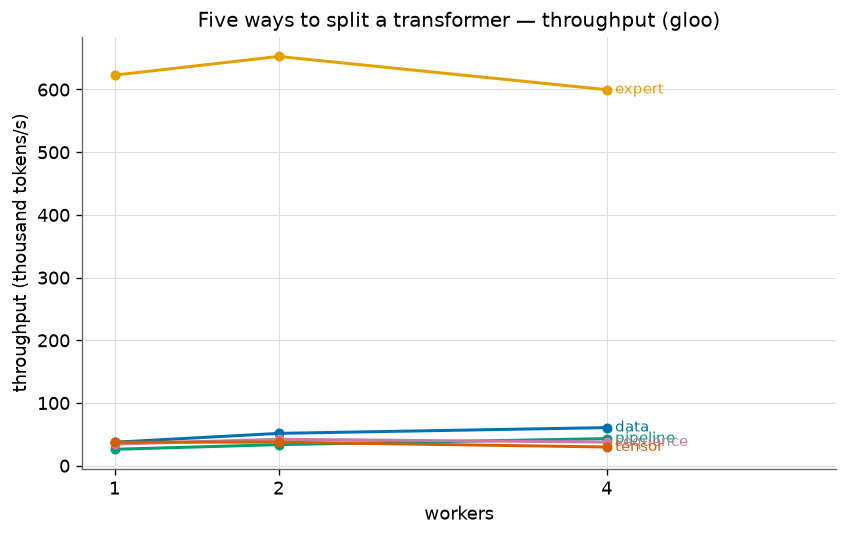
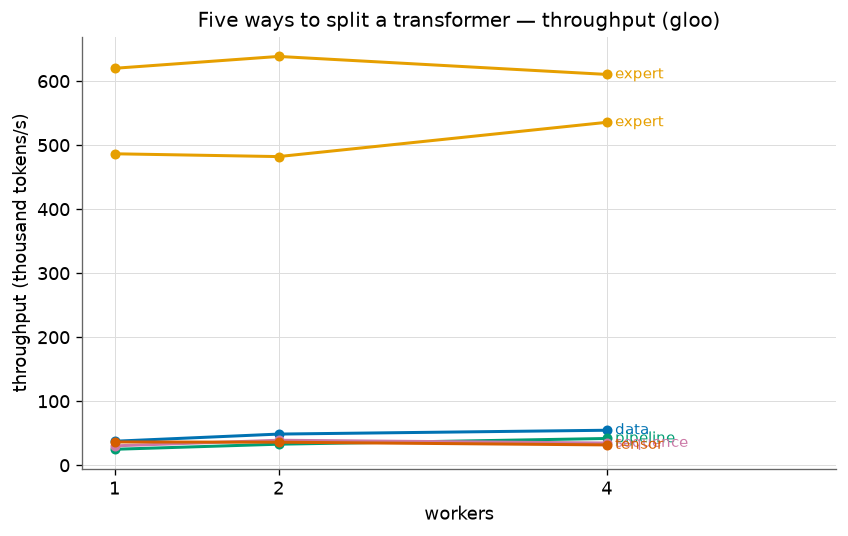
T5: fix two bugs the CPU rehearsal exists to catch
1. NCCL has no dist.gather. step_dp and step_sp both used it, so the harness would
   have failed on the first GPU run - i.e. on rented hardware. Replaced with
   all_gather, which every backend implements. Audited the remaining collectives:
   all_reduce, all_gather, send, recv and barrier are all NCCL-supported.

2. results_io replaced rows keyed on experiment alone, so re-running a single
   strategy (--strategies ep) silently deleted every other strategy's rows from the
   same experiment. Data loss with no error. Key is now (experiment, variant), with
   a regression test.

All five strategies still numerically exact after the change.

diff --git a/topics/t05_parallelism/results_io.py b/topics/t05_parallelism/results_io.py
@@ -20,19 +20,20 @@ FIELDS = ("experiment", "variant", "workers", "metric", "value")
 
 
 def append_rows(rows: list[dict[str, object]]) -> None:
-    """Replace any existing rows for the experiments present in `rows`, then append these.
+    """Replace existing rows matching the (experiment, variant) pairs in `rows`, then append these.
 
-    Replace-by-experiment (rather than plain append) keeps the file idempotent: re-running one
-    experiment refreshes its own rows and leaves the other two untouched, so a partial re-run
-    can never silently produce a CSV holding two different runs of the same experiment.
+    Idempotent so a re-run refreshes its own numbers rather than stacking a second run on top of
+    the first. The replace key is the **(experiment, variant) pair**, not the experiment alone:
+    keying on experiment meant that re-running one strategy — say `--strategies ep` — silently
+    deleted every other strategy's rows from the same experiment, losing data with no error.
     """
     RESULTS_DIR.mkdir(parents=True, exist_ok=True)
-    incoming = {str(r["experiment"]) for r in rows}
+    incoming = {(str(r["experiment"]), str(r["variant"])) for r in rows}
 
     kept: list[dict[str, str]] = []
     if CSV_PATH.exists():
         with CSV_PATH.open() as f:
-            kept = [r for r in csv.DictReader(f) if r["experiment"] not in incoming]
+            kept = [r for r in csv.DictReader(f) if (r["experiment"], r["variant"]) not in incoming]
 
     with CSV_PATH.open("w", newline="") as f:
         writer = csv.DictWriter(f, fieldnames=FIELDS)
@@ -42,7 +43,12 @@ def append_rows(rows: list[dict[str, object]]) -> None:
         for row in rows:
             writer.writerow({k: row[k] for k in FIELDS})
 
-    print(f"\nwrote {len(rows)} rows for {sorted(incoming)} -> {CSV_PATH.relative_to(Path.cwd())}")
+    experiments = sorted({e for e, _ in incoming})
+    try:
+        shown = CSV_PATH.relative_to(Path.cwd())
+    except ValueError:  # CSV lives outside cwd (e.g. a tmp dir under test)
+        shown = CSV_PATH
+    print(f"\nwrote {len(rows)} rows for {experiments} -> {shown}")
 
 
 def read_rows(experiment: str | None = None) -> list[dict[str, str]]:

diff --git a/topics/t05_parallelism/strategies.py b/topics/t05_parallelism/strategies.py
@@ -99,11 +99,13 @@ def step_dp(
     for _ in range(layers):
         local = block.forward(local)
 
-    gathered = [torch.empty_like(local) for _ in range(world)] if rank == 0 else None
-    dist.gather(local, gathered, dst=0)
-    # The gather exists only so the test can reconstruct the full output; a real DP server never
-    # does it (each rank returns its own requests). It is excluded from the comms accounting.
-    return (torch.cat(gathered, dim=0) if rank == 0 and gathered else None), 0
+    # all_gather rather than gather: NCCL does not implement gather, and this harness must run
+    # unchanged on both backends. The reassembly exists only so the correctness check can compare
+    # against the unsharded forward — a real DP server never does it (each rank returns its own
+    # requests) — so it is excluded from the comms accounting below.
+    gathered = [torch.empty_like(local) for _ in range(world)]
+    dist.all_gather(gathered, local.contiguous())
+    return (torch.cat(gathered, dim=0) if rank == 0 else None), 0
 
 
 def step_tp(
@@ -207,9 +209,10 @@ def step_sp(
         h = local + attn
         local = h + block.mlp(rms_norm(h, block.mlp_norm))  # per-token, no comms
 
-    gathered = [torch.empty_like(local) for _ in range(world)] if rank == 0 else None
-    dist.gather(local.contiguous(), gathered, dst=0)
-    return (torch.cat(gathered, dim=1) if rank == 0 and gathered else None), comms
+    # all_gather, not gather: NCCL has no gather. Reassembly is for the correctness check only.
+    gathered = [torch.empty_like(local) for _ in range(world)]
+    dist.all_gather(gathered, local.contiguous())
+    return (torch.cat(gathered, dim=1) if rank == 0 else None), comms
 
 
 def step_ep(

diff --git a/topics/t05_parallelism/test_t05.py b/topics/t05_parallelism/test_t05.py
@@ -259,3 +259,39 @@ def test_attention_is_causal(block):
 def test_head_dim_consistency(block):
     assert block.n_heads * block.head_dim == block.hidden
     assert math.isclose(block.hidden / block.n_heads, block.head_dim)
+
+
+def test_partial_rerun_does_not_delete_other_variants(tmp_path, monkeypatch):
+    """A re-run of ONE variant must not wipe its siblings.
+
+    Regression test: the replace key was the experiment alone, so re-running a single strategy
+    silently deleted every other strategy's rows from the same experiment — data loss with no
+    error and no warning.
+    """
+    import results_io
+
+    monkeypatch.setattr(results_io, "RESULTS_DIR", tmp_path)
+    monkeypatch.setattr(results_io, "CSV_PATH", tmp_path / "parallelism.csv")
+
+    base = [
+        {"experiment": "strategies_gloo", "variant": v, "workers": 2, "metric": "m", "value": "1"}
+        for v in ("dp", "tp", "ep")
+    ]
+    results_io.append_rows(base)
+    assert {r["variant"] for r in results_io.read_rows("strategies_gloo")} == {"dp", "tp", "ep"}
+
+    # Re-run only `ep`, with a new value.
+    results_io.append_rows(
+        [
+            {
+                "experiment": "strategies_gloo",
+                "variant": "ep",
+                "workers": 2,
+                "metric": "m",
+                "value": "9",
+            }
+        ]
+    )
+    rows = results_io.read_rows("strategies_gloo")
+    assert {r["variant"] for r in rows} == {"dp", "tp", "ep"}, "siblings were deleted"
+    assert [r["value"] for r in rows if r["variant"] == "ep"] == ["9"], "ep was not refreshed"
